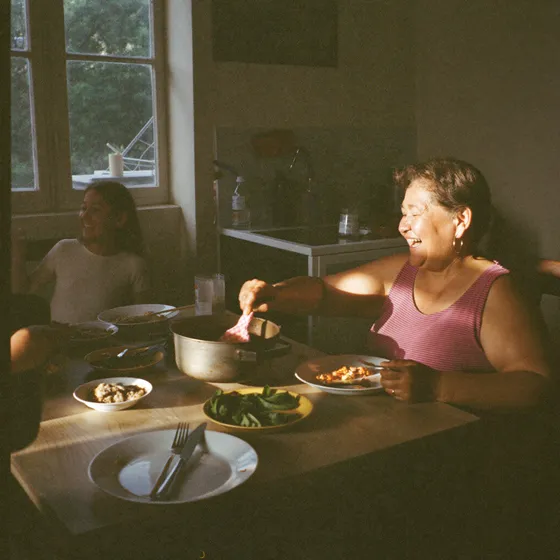
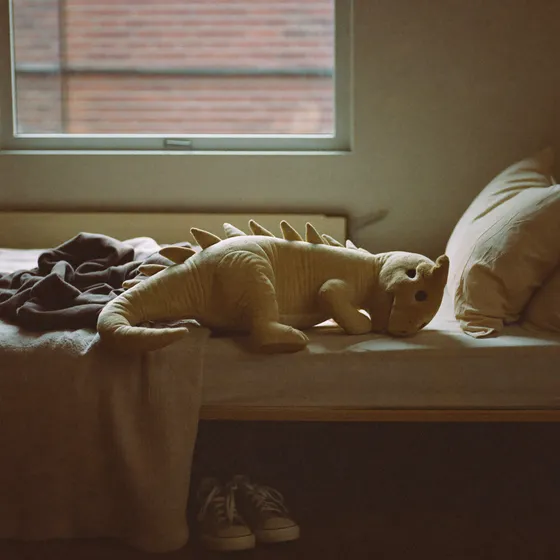
fix: uma foto UNICA por musica (11 capas, zero repeticao) e copy honesta
CAPAS: mae.webp aparecia em 3 cards e isabela.webp em outros 3. Geradas 4
fotos novas pra cada card ter a sua:
- Mulher de Palavra (mae, gospel): mulher serena na poltrona;
- Cinco Anos de Espera (filho): dinossauro de pelucia na cama - cena simbolica
  porque o gerador bloqueia (corretamente) imagem realista de crianca, e a
  historia do Theo fala justamente do "Rex";
- Cafe Ruim, Amor Certo (namorada): casal jovem no terraco;
- Gargamel (marido, pagode): casal dancando em festa de quintal.
Verificado: 11 musicas, 11 capas, nenhuma repetida.

COPY: "Historias reais que viraram musica aqui" nao era verdade - 3 dos
exemplos (filho, namorada, avo) sao historias que eu escrevi pra demonstracao,
nao de clientes. Trocado por "Todas foram feitas neste site, do jeito que a sua
vai ser", que e verdade pra todas.

diff --git a/src/components/landing/ExemplosReais.tsx b/src/components/landing/ExemplosReais.tsx
@@ -37,7 +37,7 @@ const ABAS: Array<{ chave: string; rotulo: string; emoji: string; itens: Exemplo
     emoji: "👩",
     itens: [
       { slug: "eva", titulo: "Domingo na Casa da Eva", para: "para a mãe", genero: "Sertanejo", token: "533db522753f423e8b2227", capa: "mae" },
-      { slug: "denise", titulo: "Mulher de Palavra", para: "para a mãe", genero: "Gospel", token: "2459f4b76e1b49c58be203", capa: "mae" },
+      { slug: "denise", titulo: "Mulher de Palavra", para: "para a mãe", genero: "Gospel", token: "2459f4b76e1b49c58be203", capa: "denise" },
     ],
   },
   {
@@ -63,7 +63,7 @@ const ABAS: Array<{ chave: string; rotulo: string; emoji: string; itens: Exemplo
     rotulo: "Namorados",
     emoji: "❤",
     itens: [
-      { slug: "bianca", titulo: "Café Ruim, Amor Certo", para: "para a namorada", genero: "Sertanejo", token: "exnamorada00ec1ec6", capa: "isabela" },
+      { slug: "bianca", titulo: "Café Ruim, Amor Certo", para: "para a namorada", genero: "Sertanejo", token: "exnamorada00ec1ec6", capa: "namorada" },
     ],
   },
   {
@@ -80,7 +80,7 @@ const ABAS: Array<{ chave: string; rotulo: string; emoji: string; itens: Exemplo
     emoji: "💍",
     itens: [
       { slug: "camburi", titulo: "Camburi", para: "para o marido", genero: "MPB", token: "7b89d2ed634646c4b1ee95", capa: "camburi" },
-      { slug: "garga", titulo: "Gargamel", para: "para o marido", genero: "Pagode", token: "5c980fdd76344b0c81e4e1", capa: "isabela" },
+      { slug: "garga", titulo: "Gargamel", para: "para o marido", genero: "Pagode", token: "5c980fdd76344b0c81e4e1", capa: "garga" },
     ],
   },
   {
@@ -163,7 +163,8 @@ export function ExemplosReais() {
             className="mx-auto mt-3 max-w-md text-[var(--tinta-suave)]"
             style={{ fontSize: "var(--t-sm)", lineHeight: 1.55 }}
           >
-            Histórias reais que viraram música aqui. Escolha a relação e toque.
+            Todas foram feitas neste site, do jeito que a sua vai ser. Escolha a
+            relação e toque.
           </p>
         </div>
 
